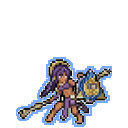
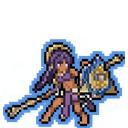
Enlarge board knights ~2x by filling the canvas and the sprite box
The square 128×128 knights rendered tiny: the figure only filled the bottom
~70px of the canvas, and contain-fit maps the whole canvas into a 42px box, so
the wasted top half shrank the figure to ~23px on the board. Regenerate the
variants from the high-res source so the figure fills the full canvas width
(122×91, bottom-anchored), and grow the board sprite box to 76px anchored to the
cell bottom so units stand on their tile and overflow upward, tactics-RPG style.
Footprint shadow scaled to match. Net effect ~2.3x taller figures.

diff --git a/public/replay.css b/public/replay.css
@@ -163,7 +163,7 @@ body {
   display: flex;
   flex-direction: column;
   align-items: center;
-  justify-content: center;
+  justify-content: flex-end;
   transition: transform 0.4s ease-out, opacity 0.4s;
   cursor: pointer;
   z-index: 10;
@@ -184,8 +184,8 @@ body {
 }
 
 .sprite {
-  width: 42px;
-  height: 42px;
+  width: 76px;
+  height: 76px;
   display: flex;
   align-items: flex-end;
   justify-content: center;
@@ -200,8 +200,8 @@ body {
   bottom: 2px;
   left: 50%;
   transform: translateX(-50%);
-  width: 26px;
-  height: 8px;
+  width: 44px;
+  height: 11px;
   border-radius: 50%;
   z-index: -1;
 }

diff --git a/public/assets/sprites.js b/public/assets/sprites.js
@@ -213,8 +213,8 @@
   // See public/assets/units/README.md.
   const IMG = {
     knight: {
-      A: "/assets/units/knight_a.png?v=3",
-      B: "/assets/units/knight_b.png?v=3",
+      A: "/assets/units/knight_a.png?v=4",
+      B: "/assets/units/knight_b.png?v=4",
     },
   };
 

diff --git a/public/assets/units/README.md b/public/assets/units/README.md
@@ -9,14 +9,17 @@ fallback sprites in `public/assets/sprites.js` (the `IMG` map).
 | ------------- | -------------------------------------------------------- |
 | Size          | **128 × 128 px** (square, to match the square board cells) |
 | Background    | Fully transparent (no checkerboard / matte)              |
-| Placement     | Figure **bottom-centered** (feet on the bottom edge)     |
+| Placement     | Figure **bottom-anchored, fills the full width** (minimal side margin) |
 | Style         | Pixel art; rendered with `image-rendering: pixelated`    |
 | Fit at render | `background-size: contain`, `background-position: center bottom` |
 
-The fixed canvas + bottom-centered placement is what keeps every unit the same
-visual scale: the renderer contain-fits the whole canvas into a square sprite
-box, so a unit's apparent size is purely a function of how much of the canvas it
-fills. Keep the figure's footprint consistent across unit types.
+The fixed square canvas keeps every unit at a consistent visual scale. Because
+the renderer contain-fits the whole canvas into the sprite box, empty canvas
+space shrinks the figure — so the figure should **fill the canvas width** and
+sit on the bottom edge, leaving only a thin rim margin. (A wide, short figure
+will still leave vertical headroom; that is expected.) On the board the sprite
+box is larger than a cell (`.sprite` in `replay.css`), so figures stand on the
+tile and overflow upward, like a tactics-RPG.
 
 ## Per-team variants
 
